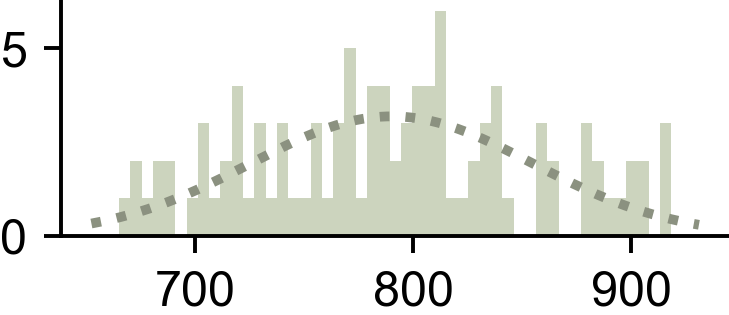
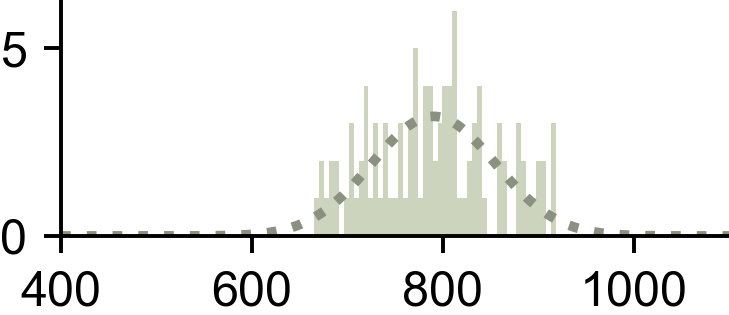
add xlim for SA fig; update SA figs

diff --git a/src/main/python/freight_emission/kpi_plots.py b/src/main/python/freight_emission/kpi_plots.py
@@ -158,6 +158,10 @@ def plot_stat_one_group(
     **kwargs
 ):
     fig, ax = plt.subplots(figsize=figure_size, dpi=350)
+    if kwargs.get('x_lim') is not None:
+        plt.xlim(kwargs.get('x_lim'))
+    if kwargs.get('y_lim') is not None:
+        plt.ylim(kwargs.get('y_lim'))
     min_val = result_summary.min()
     max_val = result_summary.max()
 
@@ -585,7 +589,8 @@ if __name__ == '__main__':
                 figure_size=(2.5, 1.2),
                 is_fitting=True,
                 n_bins=50,
-                hide_labels=True
+                hide_labels=True,
+                x_lim=(50, 300)
             )
         ''' Transit Time '''
         metric = 'total_transit_time'
@@ -601,7 +606,8 @@ if __name__ == '__main__':
                 figure_size=(2.5, 1.2),
                 is_fitting=True,
                 n_bins=50,
-                hide_labels=True
+                hide_labels=True,
+                x_lim=(400, 1100)
             )
         ''' Ton-km traveled '''
         metric = 'ton_km_traveled'
@@ -616,7 +622,8 @@ if __name__ == '__main__':
                 figure_size=(2.5, 1.2),
                 is_fitting=True,
                 n_bins=50,
-                hide_labels=True
+                hide_labels=True,
+                x_lim=(150, 850)
             )
         ''' EPI '''
         metric = 'EPI'
@@ -631,7 +638,8 @@ if __name__ == '__main__':
                 figure_size=(2.5, 1.2),
                 is_fitting=True,
                 n_bins=50,
-                hide_labels=True
+                hide_labels=True,
+                x_lim=(20, 1600)
             )
 
         ''' Weighted AQI '''
@@ -647,7 +655,8 @@ if __name__ == '__main__':
                 figure_size=(2.5, 1.2),
                 is_fitting=True,
                 n_bins=50,
-                hide_labels=True
+                hide_labels=True,
+                # x_lim=(0, 100)
             )
 
         ''' Pollutants-CO2e '''
@@ -664,7 +673,8 @@ if __name__ == '__main__':
                 figure_size=(2.5, 1.2),
                 is_fitting=True,
                 n_bins=50,
-                hide_labels=True
+                hide_labels=True,
+                x_lim=(750, 2700)
             )
     
     # plot_main_plots(figure_folder)
